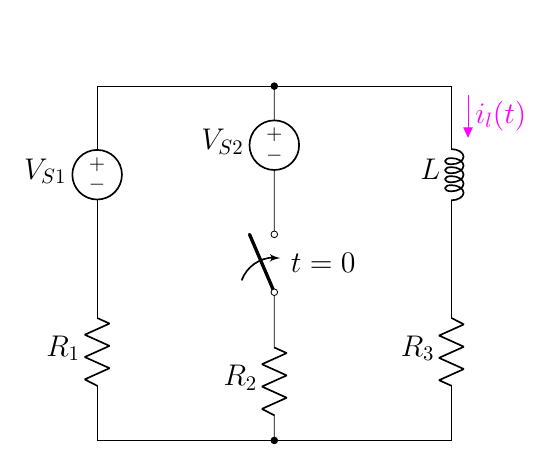
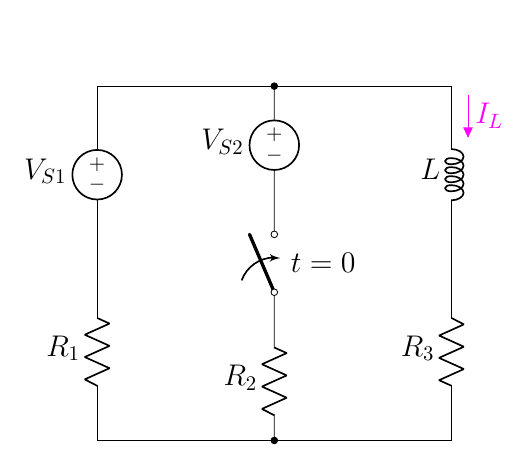
7.54

diff --git a/2.3 Driven RL/7.6 Driven RL/7.54b(new).tex b/2.3 Driven RL/7.6 Driven RL/7.54b(new).tex
@@ -28,7 +28,7 @@
     \node[anchor=east] at(4.5,3) {$t=0$};
     %%% find %%%
     \draw[circuitikz/current arrow color=magenta](6,5.1)
-    to[open,f<_=$\color{magenta}{i_l(t)}$] ++(0,2);
+    to[open,f<_=$\color{magenta}{I_L}$] ++(0,2);
 
 \end{circuitikz}
 \end{document}
